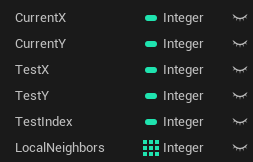
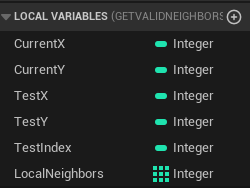
Update UE5 Maze Tutorial

diff --git a/_posts/2025-08-02-UE5-Maze-Tutorial-using-Blueprints.md b/_posts/2025-08-02-UE5-Maze-Tutorial-using-Blueprints.md
@@ -345,7 +345,7 @@ When `InitializeGrid` runs:
 ---
 
 <a href="{{ '/assets/images/blog/Step 2.1.png' | relative_url }}">
-  <img src="{{ '/assets/images/blog/Step 2.1.png' | relative_url }}" alt="Screenshot showing InitializeGrid  Grid  Clear" class="post-image">
+  <img src="{{ '/assets/images/blog/Step 2.1.png' | relative_url }}" alt="Screenshot showing InitializeGrid  Grid  Clear node at start of function" class="post-image">
 </a>
 
 ---
@@ -631,92 +631,140 @@ This cell will be added to the `Grid` array in the next step.
 
 ## Step 2.4 — Add the Cell to the Grid Array
 
-Now that we’ve created a `MazeCell`, we need to store it in the grid.
+Now that we’ve created a `MazeCell`, we need to store it in the `Grid` array.
+
+This step is what actually builds the grid data.
 
 ---
 
 ### What this step does
 
-This step adds each newly created `MazeCell` into the `Grid` array.
+This step takes the `MazeCell` created in the inner loop and adds it to the `Grid` array.
 
-> By the end of the loop, the Grid will contain every cell in the maze.
+> Each time the inner loop runs, one new cell is added to the grid.
+
+---
+
+### Where this goes
+
+This must happen **inside the inner loop**, using the same execution flow that runs for each cell.
+
+Your flow should now look like this:
+
+    InitializeGrid
+      → Clear
+      → Outer ForLoop (Y)
+          → Inner ForLoop (X)
+              → Add (Grid)
+                     ↑
+                Make MazeCell
+
+The `Add` node is part of the white execution flow.  
+The `Make MazeCell` node provides the data that gets added.
 
 ---
 
 ### Instructions
 
-1. Make sure you are still inside the **inner loop** (where each cell is being created).
+1. Make sure you are still working inside the **inner ForLoop**.
 
-2. Drag the `Grid` variable into the graph as **Get**.
+2. Locate the **Loop Body** execution pin on the inner `ForLoop`.
 
-3. Drag off `Grid` and search for:
-   `Add`
+3. From the **MazeCell pin** of `Make MazeCell`, do the following:
 
-4. Connect:
+   - Click and drag from the blue pin on `Make MazeCell`
+   - Release in empty space in the graph
+   - In the search box that appears, type:
+     `Add`
+   - Look for the node labeled:
+     **Add (Array)**
+   - Click it to place the node
+
+   This creates an **Add node** that will let us insert the new cell into the `Grid` array.
+
+4. Drag the `Grid` variable into the graph as **Get**.
+
+5. Connect:
    - `Grid` → **Target Array**
-   - `Make MazeCell` → **Item**
 
-5. Connect the execution wire so this runs after the cell is created.
+6. Make sure the white execution wire goes:
+   - inner `ForLoop Loop Body` → `Add`
 
 ---
 
 ### Connections recap
 
-- Execution flow → `Add`
+- inner `ForLoop Loop Body` → `Add` (Exec)
 - `Grid` → **Target Array**
 - `Make MazeCell` → **Item**
 
 ---
 
+### What is happening here
+
+Each time the inner loop runs:
+
+- the loop reaches one grid position
+- `Make MazeCell` builds the cell data for that position
+- `Add` stores that new cell in the `Grid` array
+
+So the array builds like this:
+
+- first loop → add cell (0,0)
+- next loop → add cell (1,0)
+- next loop → add cell (2,0)
+- continue until the entire grid is filled
+
+---
+
 ### Why this matters
 
-The grid does not exist until you populate it.
+Creating the cell is not enough—you must store it.
 
-This step ensures:
+> The `Grid` array is what the rest of the maze system uses to read and modify cells.
 
-> Every generated `MazeCell` is stored in the `Grid` array.
+Without this step:
 
-Without this, your maze would have no data to work with in later steps.
+- the grid stays empty
+- later steps like neighbor checks will fail
 
 ---
 
 ### Common mistakes
 
-❌ Forgetting the execution wire  
-✔ The `Add` node must be part of the execution flow
+❌ Trying to connect execution from `Make MazeCell`  
+✔ `Make MazeCell` is a pure node and has no exec pins
 
----
+❌ Connecting the wrong white wire  
+✔ The exec wire should come from the inner `ForLoop Loop Body`
 
-❌ Using `Set Grid` instead of `Get Grid`  
-✔ Always use **Get** when feeding into the Add node
+❌ Using `Set Grid` instead of `Add`  
+✔ Use `Add` to append items to the array
 
----
+❌ Forgetting to connect `Make MazeCell` to **Item**  
+✔ That is the cell data being stored
 
-❌ Not connecting `Make MazeCell` to Item  
-✔ The cell you created must be what gets added
-
----
-
-❌ Adding outside the loop  
-✔ This must happen inside the loop so every cell is added
+❌ Placing the `Add` node outside the inner loop  
+✔ It must run once per cell
 
 ---
 
 ### Expected result
 
-As the loop runs:
+As the loops run:
 
-- Each `MazeCell` is added to the `Grid` array
-- The array grows one element at a time
+- each `MazeCell` is created
+- each cell is added to the `Grid` array
+- the array grows one element at a time
 
-By the end of the loop:
+By the end of both loops:
 
-> `Grid` contains all cells in the maze, in order
+> `Grid` contains every cell in the maze, in order
 
 ---
 
 <a href="{{ '/assets/images/blog/Step 2.4.png' | relative_url }}">
-  <img src="{{ '/assets/images/blog/Step 2.4.png' | relative_url }}" alt="Screenshot showing Make MazeCell connected into Add node targeting Grid" class="post-image">
+  <img src="{{ '/assets/images/blog/Step 2.4.png' | relative_url }}" alt="Screenshot showing Make MazeCell → Add (Grid) setup inside loop" class="post-image">
 </a>
 
 ---
@@ -813,7 +861,9 @@ In the next step, we will build the formula that performs this conversion.
 
 ---
 
-> **Screenshot placeholder:** Insert image showing the GetIndex function with inputs and output configured
+<a href="{{ '/assets/images/blog/Step 3.png' | relative_url }}">
+  <img src="{{ '/assets/images/blog/Step 3.png' | relative_url }}" alt="Screenshot showing the GetIndex function with inputs and output configured" class="post-image">
+</a>
 
 ---
 
@@ -833,25 +883,60 @@ This step builds the formula that converts 2D grid coordinates into a 1D array i
 
 ### The formula
 
-Index = X + (Y \* GridWidth)
+Index = X + (Y * GridWidth)
+
+---
+
+### Where X and Y come from
+
+The `X` and `Y` values are the **inputs** of the `GetIndex` function.
+
+In Unreal Engine 5, function inputs do **not** appear in the My Blueprint panel.
+
+Instead:
+
+> They are available as pins on the **Function Entry node**
+
+When you open `GetIndex`, you should see:
+
+    GetIndex (Entry)
+        X
+        Y
+
+These pins are what you will use in this step.
 
 ---
 
 ### Instructions
 
-1. Drag in the `Y` variable as **Get**.
-2. Drag in `GridWidth` as **Get**.
-3. Add a multiplication (`*`) node:
-   - Connect `Y` → input A
-   - Connect `GridWidth` → input B
+1. Locate the **Function Entry node** for `GetIndex`.
 
-4. Drag in the `X` variable as **Get**.
+2. From the `Y` input pin on the Entry node:
+   - click and drag a wire into empty space in the graph
+   - release the wire and search for:
+     `*`
+   - choose the integer **multiply** node
 
-5. Add an addition (`+`) node:
-   - Connect the result of `(Y * GridWidth)` → input A
-   - Connect `X` → input B
+3. Drag `GridWidth` into the graph as **Get**.
 
-6. Connect the result of the addition to the **Return Node**.
+4. Connect:
+   - `Y` → first input of the multiply node
+   - `GridWidth` → second input of the multiply node
+
+5. From the `X` input pin on the Entry node:
+  - click and drag a wire into the graph
+  - search for:
+    `+`
+  - select the integer **Add** node
+
+6. From the output of the multiply node:
+   - connect it to the second input of the Add node
+
+7. Connect:
+   - result of `(Y * GridWidth)` → first input of the Add node
+   - `X` → second input of the Add node
+
+8. Connect the output of the add node to the **Return Node**.
 
 ---
 
@@ -888,6 +973,11 @@ If `GridWidth = 21`:
 
 ### Common mistakes
 
+❌ Looking for X and Y in the variable list  
+✔ They are on the **Function Entry node**
+
+---
+
 ❌ Forgetting parentheses (order of operations)  
 ✔ Always calculate `(Y * GridWidth)` first
 
@@ -915,7 +1005,7 @@ This will be used throughout the maze system whenever we need to access a specif
 ---
 
 <a href="{{ '/assets/images/blog/Step 3.1.png' | relative_url }}">
-  <img src="{{ '/assets/images/blog/Step 3.1.png' | relative_url }}" alt="Screenshot showing GetIndex function using X + (Y * GridWidth)" class="post-image">
+  <img src="{{ '/assets/images/blog/Step 3.1.png' | relative_url }}" alt="Screenshot showing multiply → add → return node setup" class="post-image">
 </a>
 
 ---
@@ -1017,7 +1107,9 @@ In the next steps, we will build the logic inside this function step-by-step.
 
 ---
 
-> **Screenshot placeholder:** Insert image showing the function with input and output configured
+<a href="{{ '/assets/images/blog/Step 4.png' | relative_url }}">
+  <img src="{{ '/assets/images/blog/Step 4.png' | relative_url }}" alt="Screenshot showing the GetValidNeighbors function with input and output configured" class="post-image">
+</a>
 
 ---
 
@@ -1037,7 +1129,7 @@ This step defines temporary variables that exist only within this function.
 
 ### Instructions
 
-1. Open your function.
+1. Open your GetValidNeighbors function.
 
 2. In the **My Blueprint** panel, locate the **Local Variables** section.
 
